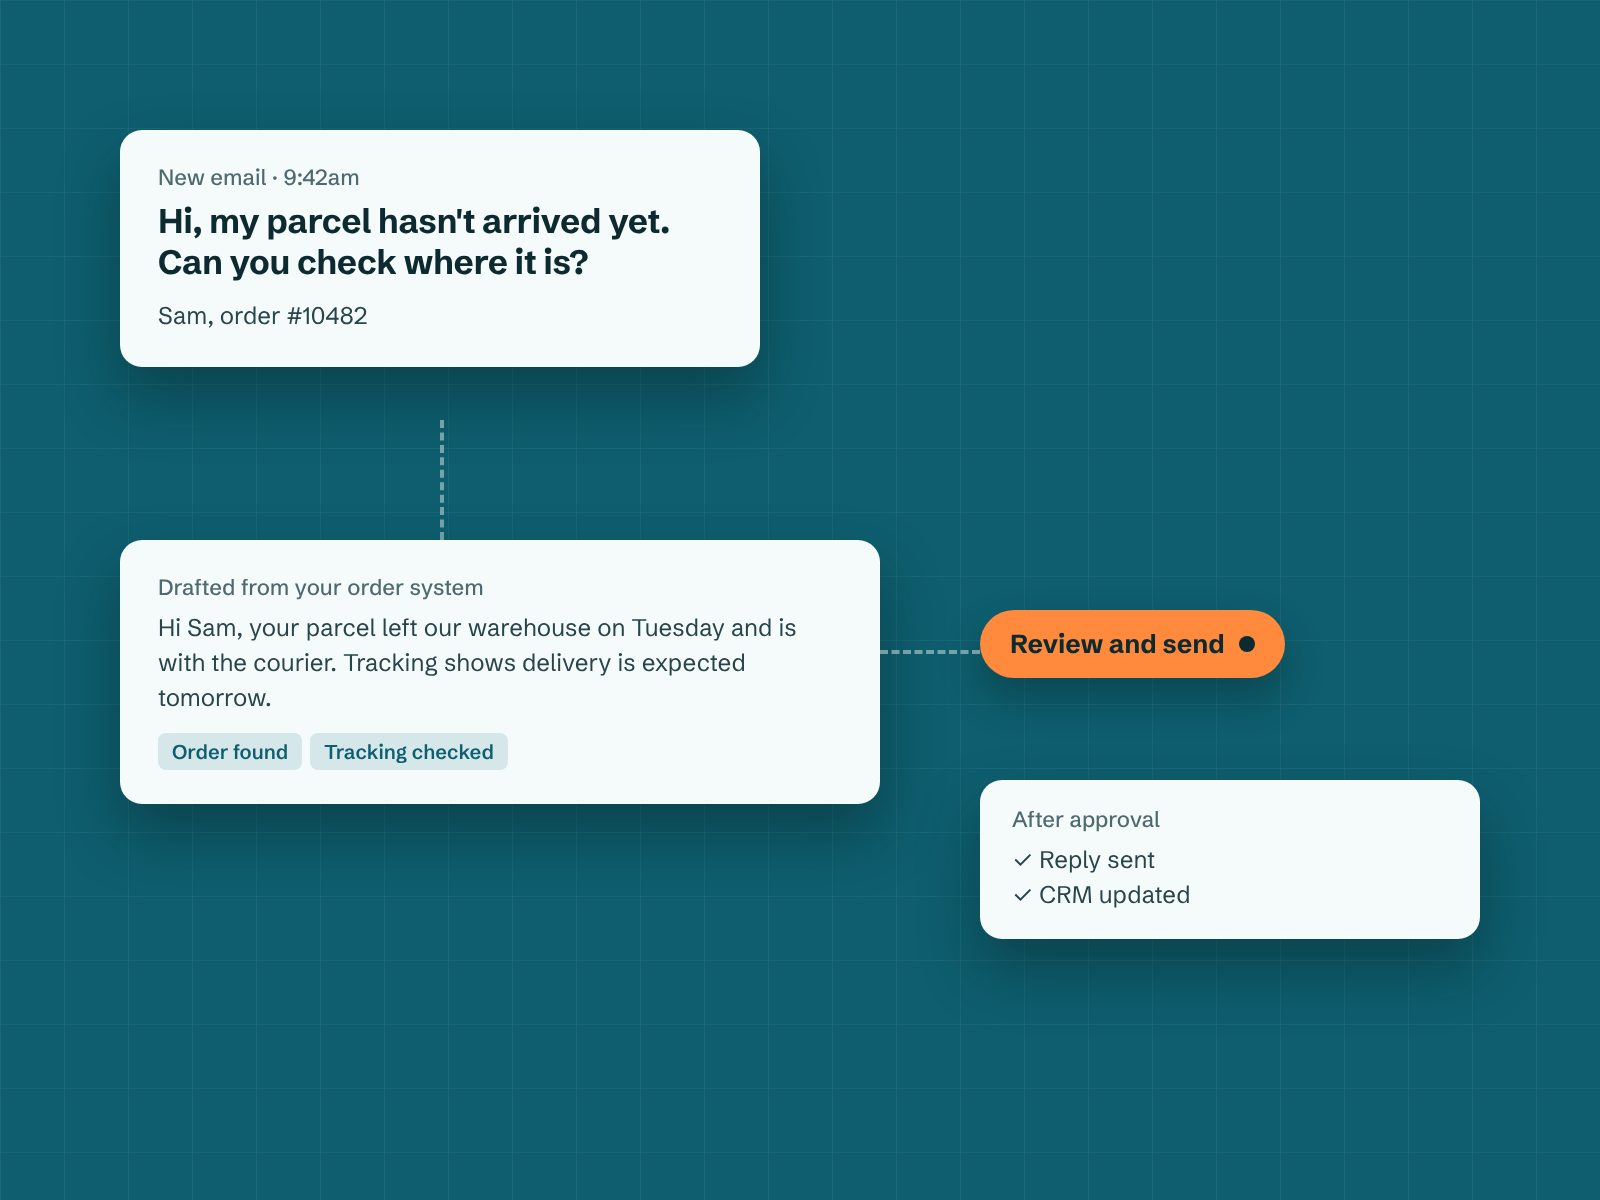
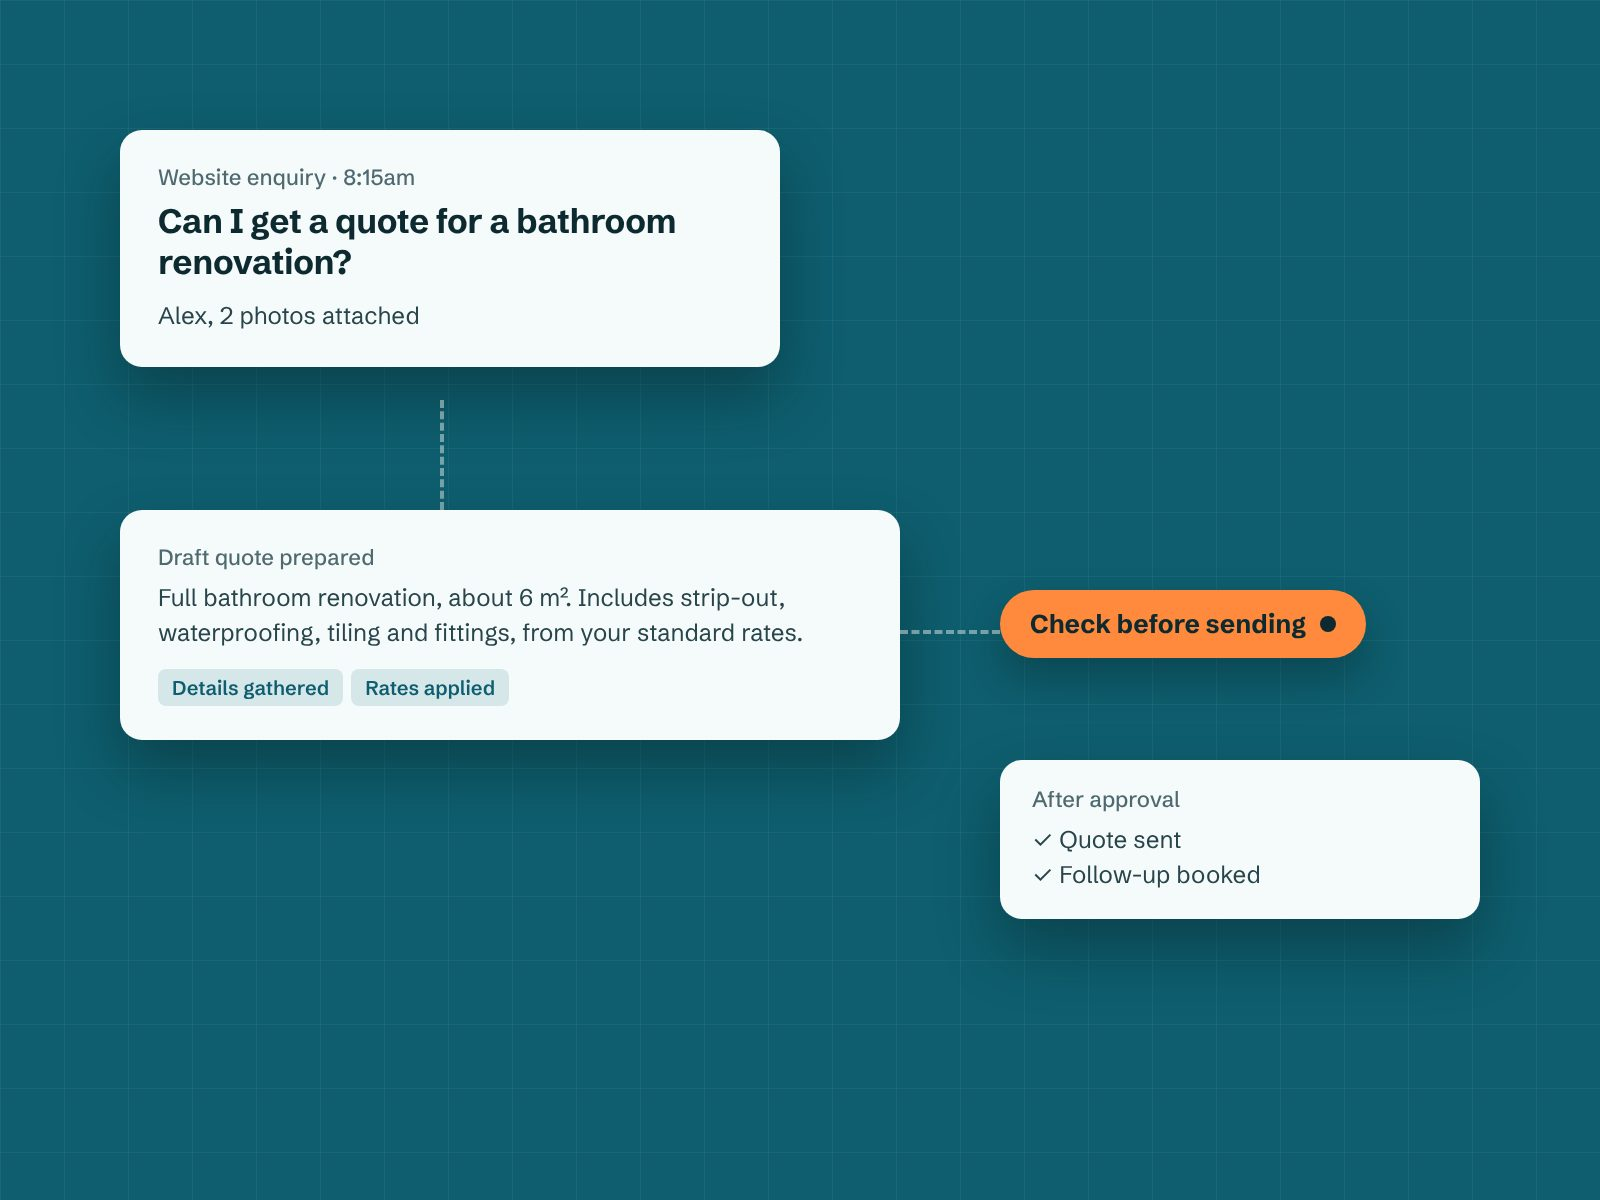
Replace e-commerce slides with quote and invoice examples

diff --git a/index.html b/index.html
@@ -48,12 +48,12 @@
       <div class="slider" id="slider" aria-roledescription="carousel" aria-label="How AI can fit into everyday work">
         <div class="slides">
           <figure class="slide is-active" aria-roledescription="slide" aria-label="1 of 5">
-            <img src="images/slide-1.jpg" width="1600" height="1200" alt="A customer email asking about a parcel, a drafted reply using order and tracking details, and a 'Review and send' step before the reply goes out and the CRM is updated.">
-            <figcaption><strong>A customer request</strong> The reply is drafted from your systems. A person approves it.</figcaption>
+            <img src="images/slide-1.jpg" width="1600" height="1200" alt="A website enquiry asking for a bathroom renovation quote, a draft quote prepared from standard rates, and a 'Check before sending' step before the quote goes out and a follow-up is booked.">
+            <figcaption><strong>A quote request</strong> The details are gathered and a draft quote prepared. A person checks it before it goes out.</figcaption>
           </figure>
           <figure class="slide" aria-roledescription="slide" aria-label="2 of 5">
-            <img src="images/slide-2.jpg" width="1600" height="1200" alt="An online order is checked against inventory and supplier stock; a stock conflict is flagged for a person while order records, customer updates and shipping carry on." loading="lazy">
-            <figcaption><strong>An order comes in</strong> Routine steps run on their own. Conflicts go to your team.</figcaption>
+            <img src="images/slide-2.jpg" width="1600" height="1200" alt="A supplier invoice PDF is read and checked against the purchase order; a price mismatch is flagged for a person while the invoice is entered in the accounts system and filed." loading="lazy">
+            <figcaption><strong>A supplier invoice</strong> The details are read off the PDF. A price mismatch goes to a person, and the rest goes into your accounts.</figcaption>
           </figure>
           <figure class="slide" aria-roledescription="slide" aria-label="3 of 5">
             <img src="images/slide-3.jpg" width="1600" height="1200" alt="A question asked of company documents, answered with numbered citations to a pricing policy and customer terms, with sources shown." loading="lazy">
